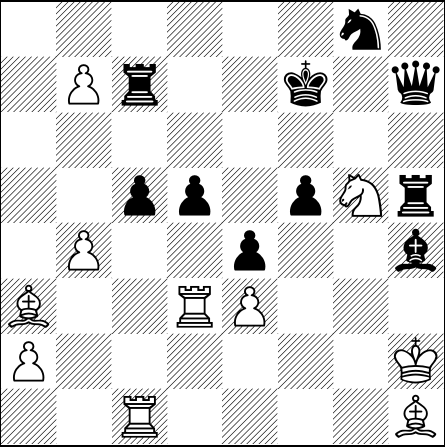
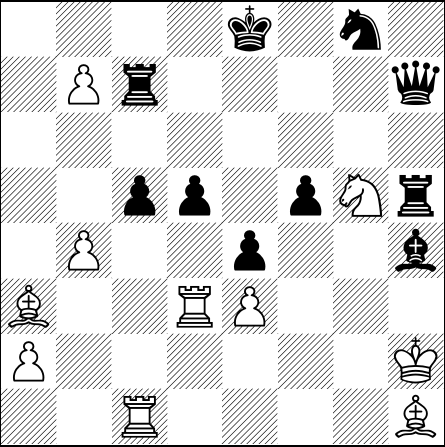
[automated] Regenerate text/pdf for chessboard

Changed region(s): [[0.6427, 0.1163, 0.7596, 0.2617], [0.4966, 0.0, 0.6135, 0.1163]]

diff --git a/default_filepath.tex b/default_filepath.tex
@@ -13,6 +13,6 @@
 \normalsize%
 \setchessboard{showmover=false}%
 \newgame%
-\fenboard{6n1/1Pr2k1q/8/2pp1pNr/1P2p2b/B2RP3/P6K/2R4B b - - 0 53}%
+\fenboard{4k1n1/1Pr4q/8/2pp1pNr/1P2p2b/B2RP3/P6K/2R4B w - - 1 54}%
 \chessboard%
 \end{document}
